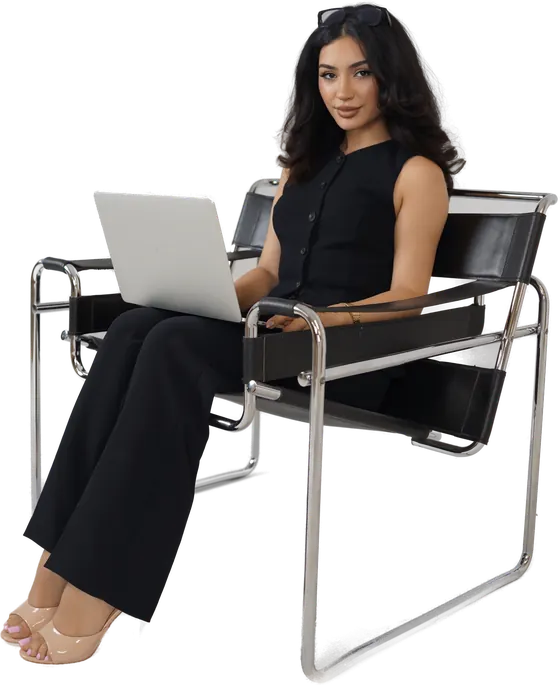
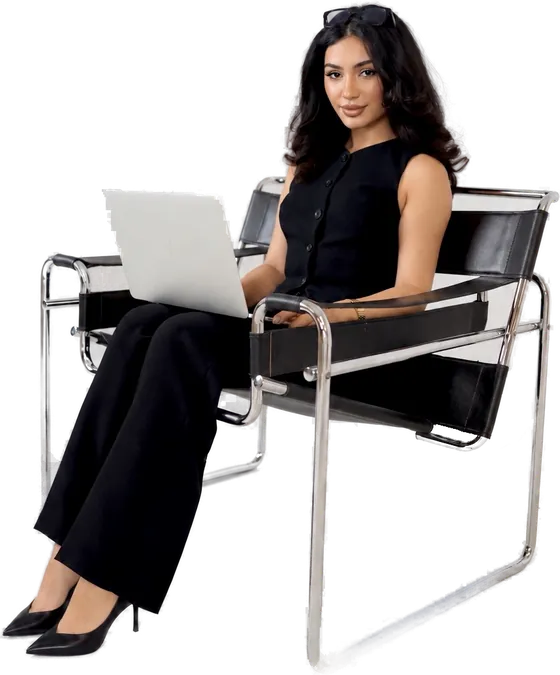
Services hero: swap in the updated chair photo with black heels
Claude-Session: https://claude.ai/code/session_01T8NNnyTMGnRn54J3c2BVxa

Changed region(s): [[0.0, 0.0, 1.0, 0.9956], [0.3036, 0.4978, 0.3339, 0.5289]]

diff --git a/services.html b/services.html
@@ -475,7 +475,7 @@ footer { background: var(--black); padding: 80px 60px 40px; }
       <figure class="os-figure">
         <picture>
           <source media="(max-width: 600px)" srcset="images/helia-chair-cutout-sm.webp">
-          <img src="images/helia-chair-cutout.webp" alt="Helia Homam, founder of GrandAscend, seated with her laptop" width="1000" height="1224" fetchpriority="high">
+          <img src="images/helia-chair-cutout.webp" alt="Helia Homam, founder of GrandAscend, seated with her laptop" width="858" height="1034" fetchpriority="high">
         </picture>
       </figure>
       <div class="os-folders right">
